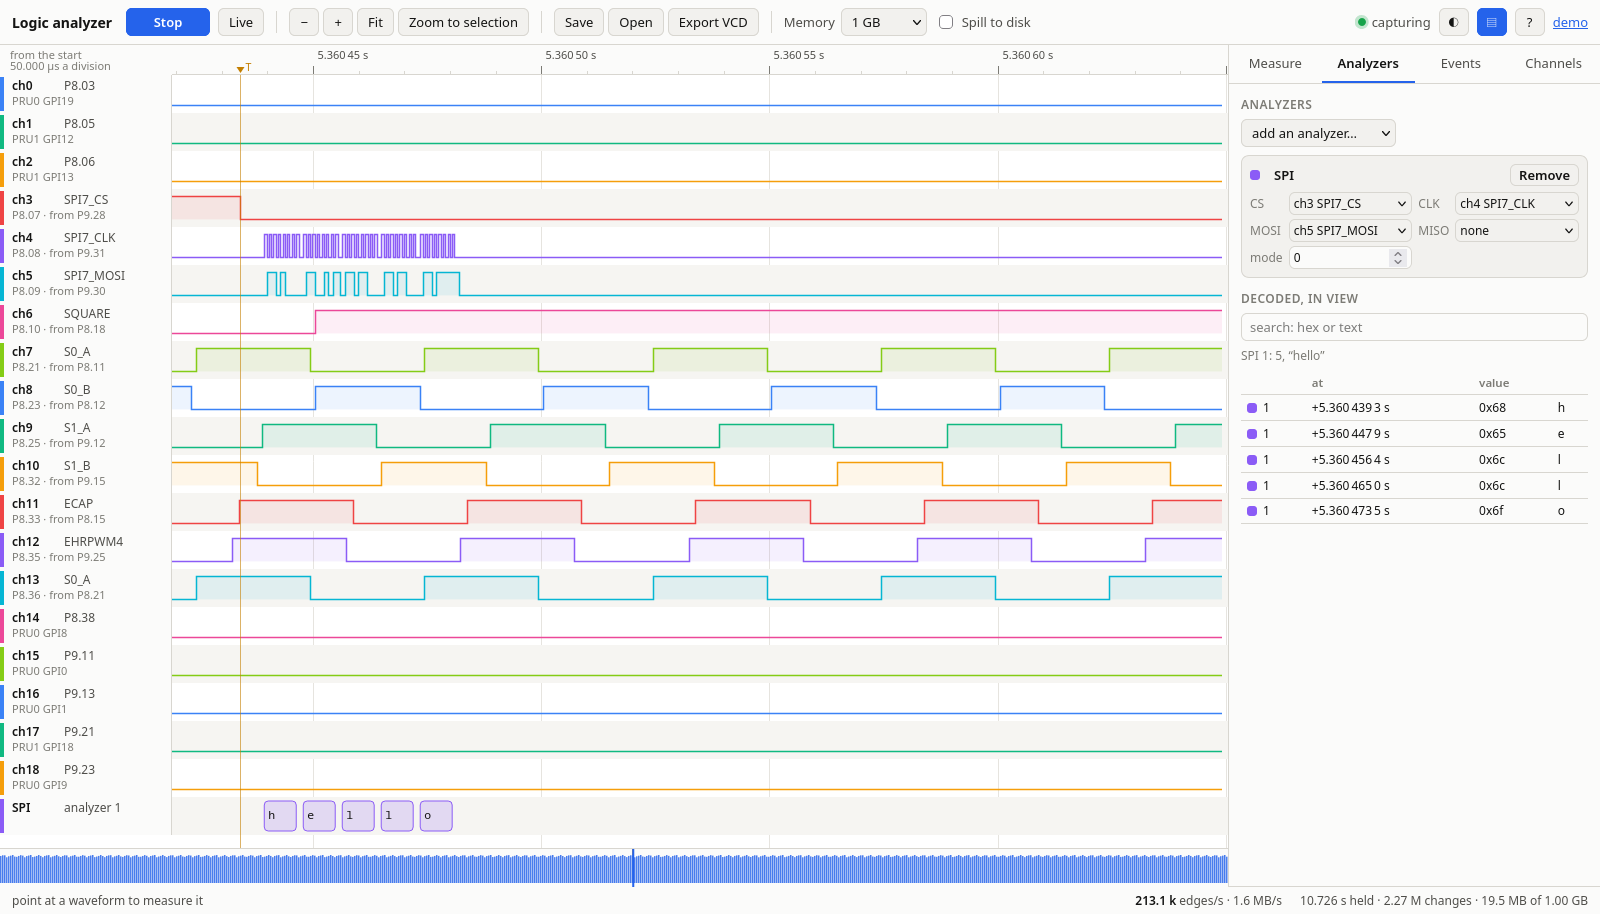
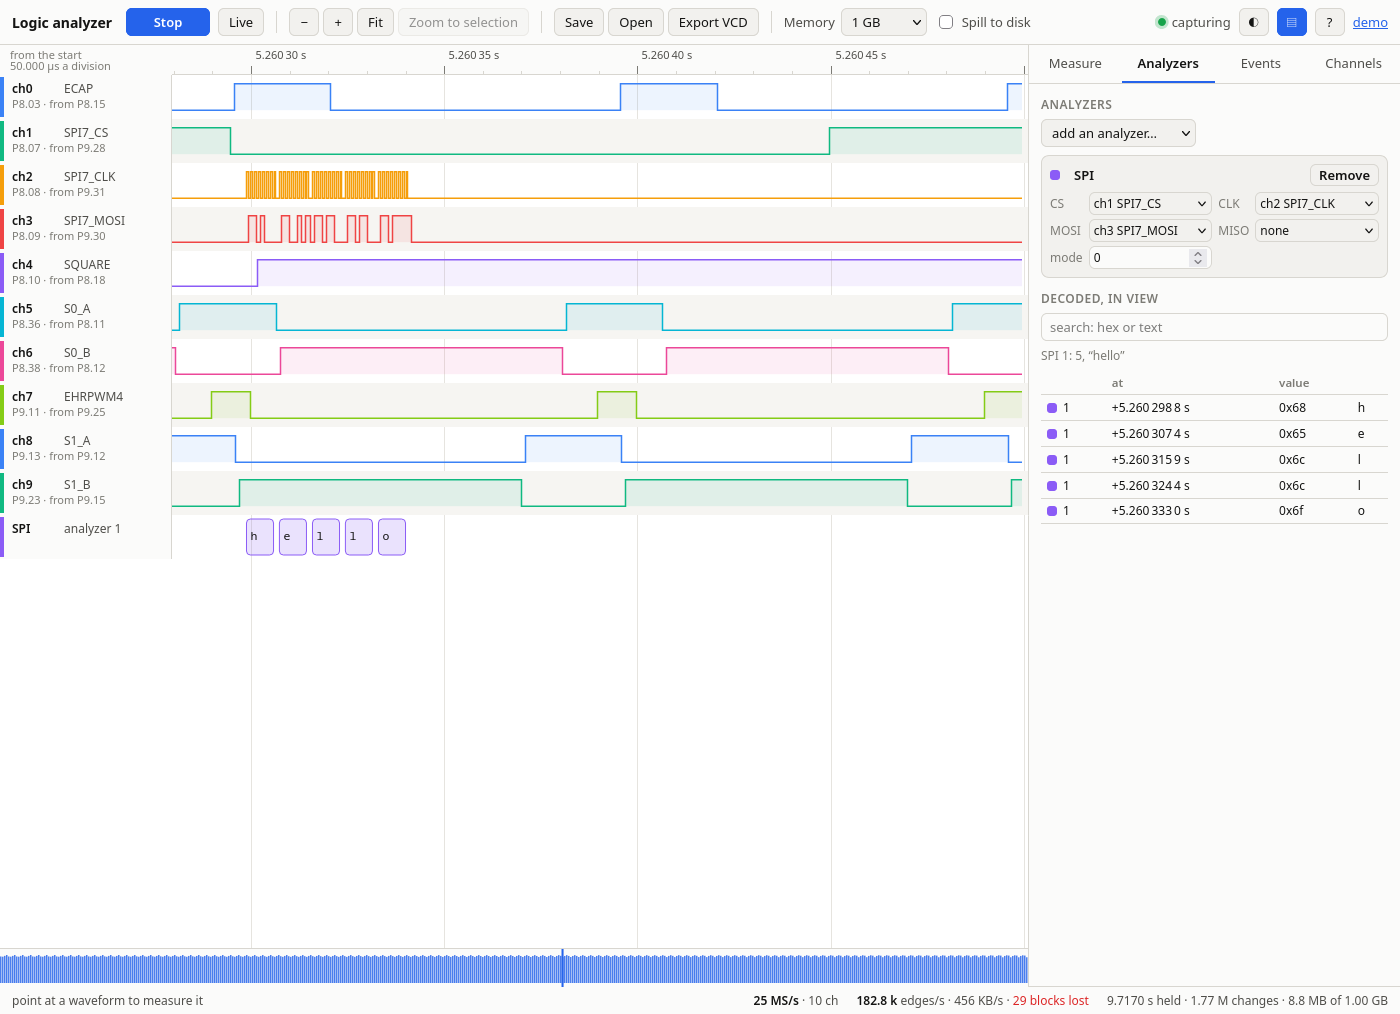
Logic analyzer page: SPI decoder defaults to SPI7 on ch1-3; new screenshots and la window samples of 10 channels

diff --git a/linux-app/web/la.html b/linux-app/web/la.html
@@ -759,7 +759,7 @@ function esc(s) { return String(s).replace(/[&<>"]/g, c => ({ "&": "&amp;", "<":
 // ---- decoders: each reads the time in view, and gives boxes for its row ----
 
 const DEC = {
-  spi: { name: "SPI", fields: [["cs", "CS", "ch", 3], ["clk", "CLK", "ch", 4], ["mosi", "MOSI", "ch", 5], ["miso", "MISO", "ch", -1], ["mode", "mode", "num", 0]] },
+  spi: { name: "SPI", fields: [["cs", "CS", "ch", 1], ["clk", "CLK", "ch", 2], ["mosi", "MOSI", "ch", 3], ["miso", "MISO", "ch", -1], ["mode", "mode", "num", 0]] },
   uart: { name: "UART", fields: [["ch", "RX", "ch", 6], ["baud", "baud", "num", 115200], ["invert", "inverted", "bool", false]] },
   i2c: { name: "I²C", fields: [["scl", "SCL", "ch", 0], ["sda", "SDA", "ch", 1]] },
 };

diff --git a/README.md b/README.md
@@ -347,21 +347,21 @@ pipeline (running, P9.25 follows): stage                        windows/s   late
   score: 15063 right, 0 wrong (100.00%), 4468 across a step, in 10.0 s; since training 214122 right, 0 wrong
 
 == la (every second, ICSSG1's 10 channels)
-ICSSG1 logic analyzer, the last 0.994 s; IEP0 at 892.646 s
+ICSSG1 logic analyzer, the last 1.004 s; IEP0 at 5493.118 s
   25 MS/s, channels 0 1 2 3 4 5 6 7 8 9; 1 sample a word, 106.7 MB/s into the ring, which holds 0.315 s; the reader keeps up
-  read 1666667 blocks/s, 32069 edges/s; lost 0 blocks this interval, 0 in all
+  read 1666667 blocks/s, 181567 edges/s; lost 0 blocks this interval, 113 in all
 
   ch  pin    GPI  wired to          level  edges/s     frequency   duty
-   0  P8.03  19   ECAP P8.15        low            0      0.0 Hz     0.0%
+   0  P8.03  19   ECAP P8.15        high       29936   14.968 kHz   50.1%
    1  P8.07  14   SPI7_CS P9.28     high           0      0.0 Hz   100.0%
    2  P8.08  13   SPI7_CLK P9.31    low            0      0.0 Hz     0.0%
    3  P8.09  16   SPI7_MOSI P9.30   low            0      0.0 Hz     0.0%
-   4  P8.10  15   SQUARE P8.18      low         2000    1.000 kHz   50.0%
-   5  P8.36  7    S0_A P8.11        low        30072   15.036 kHz   50.1%
-   6  P8.38  8    S0_B P8.12        low            0      0.0 Hz     0.0%
-   7  P9.11  0    EHRPWM4 P9.25     low            0      0.0 Hz     0.0%
-   8  P9.13  1    S1_A P9.12        low            0      0.0 Hz     0.0%
-   9  P9.23  9    S1_B P9.15        low            0      0.0 Hz     0.0%
+   4  P8.10  15   SQUARE P8.18      high        2000    999.9 Hz    50.0%
+   5  P8.36  7    S0_A P8.11        high       29936   14.968 kHz   50.1%
+   6  P8.38  8    S0_B P8.12        low        29936   14.968 kHz   46.8%
+   7  P9.11  0    EHRPWM4 P9.25     high       29912   14.956 kHz   50.2%
+   8  P9.13  1    S1_A P9.12        high       29935   14.968 kHz   50.1%
+   9  P9.23  9    S1_B P9.15        low        29935   14.967 kHz   46.8%
 
 == c66x0 (c66x1 is the same, with DNUM 1 and the odd windows)
 4d80800000.dsp trace (ai64-c66x.elf), 2048 bytes at 0x4d80815480

diff --git a/pru/logic_analyzer/README.md b/pru/logic_analyzer/README.md
@@ -109,17 +109,17 @@ At 125 MS/s on two channels in two bytes a sample, 267 MB/s, the reader read 2.7
 `ai64-demo` starts it on ICSSG1, and opens the `la` window:
 
 ```
-ICSSG1 logic analyzer, the last 0.994 s; IEP0 at 892.646 s
+ICSSG1 logic analyzer, the last 1.004 s; IEP0 at 5493.118 s
   25 MS/s, channels 0 1 2 3 4 5 6 7 8 9; 1 sample a word, 106.7 MB/s into the ring, which holds 0.315 s; the reader keeps up
-  read 1666667 blocks/s, 32069 edges/s; lost 0 blocks this interval, 0 in all
+  read 1666667 blocks/s, 181567 edges/s; lost 0 blocks this interval, 113 in all
 
   ch  pin    GPI  wired to          level  edges/s     frequency   duty
-   0  P8.03  19   ECAP P8.15        low            0      0.0 Hz     0.0%
+   0  P8.03  19   ECAP P8.15        high       29936   14.968 kHz   50.1%
    1  P8.07  14   SPI7_CS P9.28     high           0      0.0 Hz   100.0%
    2  P8.08  13   SPI7_CLK P9.31    low            0      0.0 Hz     0.0%
    3  P8.09  16   SPI7_MOSI P9.30   low            0      0.0 Hz     0.0%
-   4  P8.10  15   SQUARE P8.18      low         2000    1.000 kHz   50.0%
-   5  P8.36  7    S0_A P8.11        low        30072   15.036 kHz   50.1%
+   4  P8.10  15   SQUARE P8.18      high        2000    999.9 Hz    50.0%
+   5  P8.36  7    S0_A P8.11        high       29936   14.968 kHz   50.1%
    ...
 ```
 
